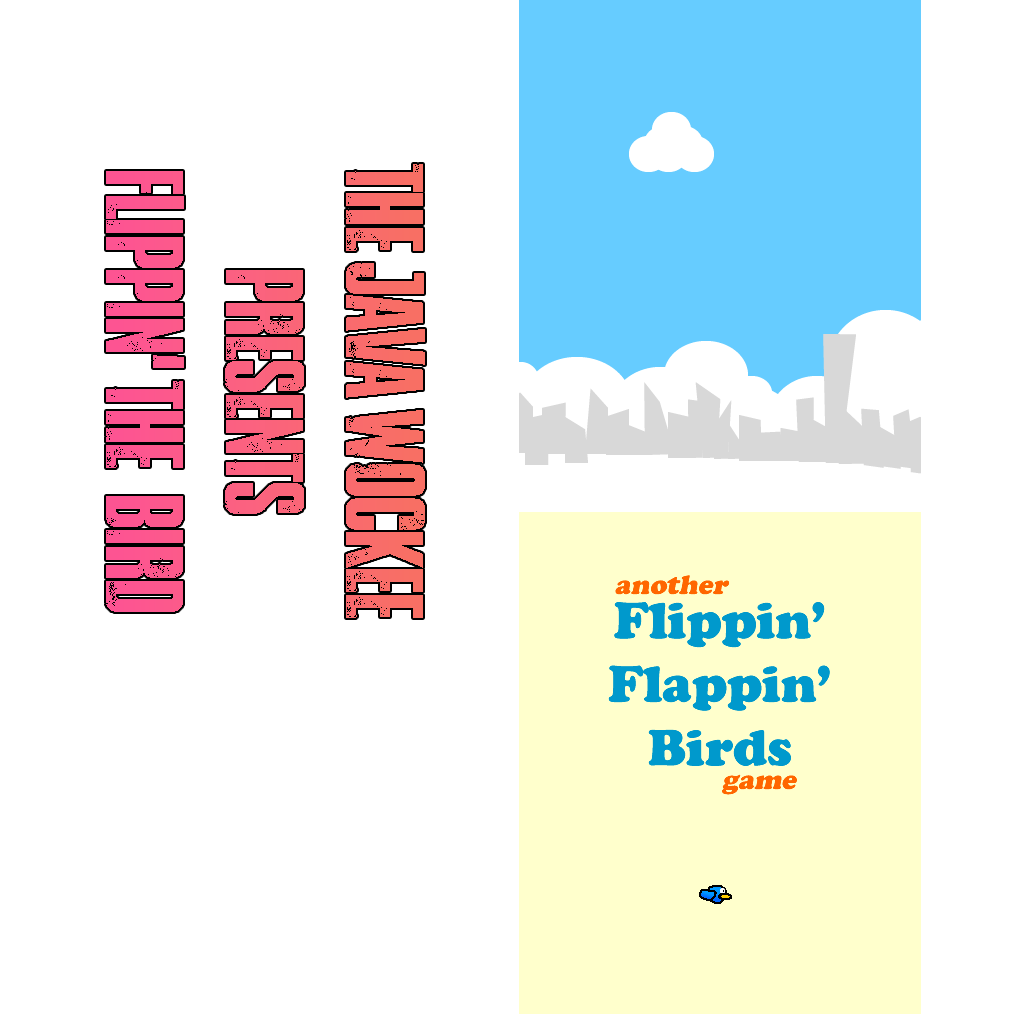
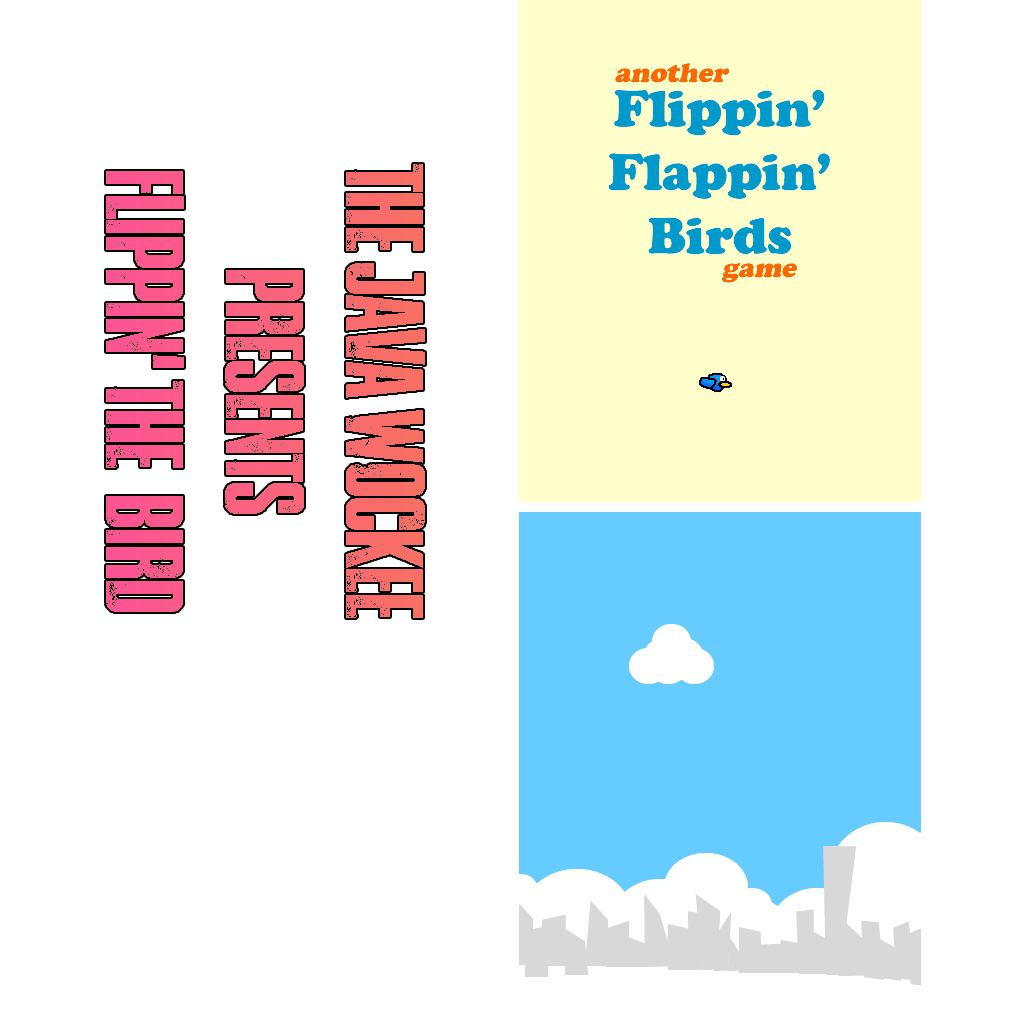
updated the Flapping bird template to the latest version of Construct 3, which includes a new tiled background and various bug fixes and improvements.

diff --git a/Flapping bird template/scripts/c3runtime.js b/Flapping bird template/scripts/c3runtime.js
@@ -1259,6 +1259,11 @@ const C3=self.C3,GESTURE_HOLD_THRESHOLD=15,GESTURE_HOLD_TIMEOUT=500,GESTURE_TAP_
 {const t=self.C3;t.Behaviors.Platform=class extends t.SDKBehaviorBase{constructor(t){super(t)}Release(){super.Release()}}}{const e=self.C3;e.Behaviors.Platform.Type=class extends e.SDKBehaviorTypeBase{constructor(t){super(t)}Release(){super.Release()}OnCreate(){}}}{const i=self.C3,s=self.C3X,n=self.IBehaviorInstance,h=0,r=1,o=2,l=3,a=4,_=5,u=6,d=7,m=8,p=9,g=.05;function accelerate(t,e,s,n,h){const r=e*h,o=s*h;return i.clamp(t*h+.5*n*h*h,r,o)}i.Behaviors.Platform.Instance=class extends i.SDKBehaviorInstanceBase{constructor(t,e){super(t),this._keyboardDisposables=null,this._leftKey=!1,this._rightKey=!1,this._jumpKey=!1,this._jumped=!1,this._doubleJumped=!1,this._canDoubleJump=!1,this._ignoreInput=!1,this._simLeft=!1,this._simRight=!1,this._simJump=!1,this._lastFloorObject=null,this._loadFloorUid=-1,this._lastFloorX=0,this._lastFloorY=0,this._floorIsJumpthru=!1,this._wasOnFloor=!1,this._wasOverJumpthru=this._runtime.GetCollisionEngine().TestOverlapJumpthru(this._inst),this._loadJumpthruUid=-1,this._animMode="stopped",this._fallThroughTime=-1,this._isFirstTick=!0,this._dx=0,this._dy=0,this._downX=0,this._downY=0,this._rightX=0,this._rightY=0,this._g=1500,this._g1=1500,this._ga=i.toRadians(90),this._maxSpeed=330,this._acc=1500,this._dec=1500,this._jumpStrength=650,this._maxFall=1e3,this._enableDoubleJump=!1,this._jumpSustain=0,this._sustainTime=0,this._defaultControls=!0,this._ceilingCollisionMode=0,this._isEnabled=!0,e&&(this._maxSpeed=e[h],this._acc=e[r],this._dec=e[o],this._jumpStrength=e[l],this._g=e[a],this._maxFall=e[_],this._enableDoubleJump=!!e[u],this._jumpSustain=e[d]/1e3,this._defaultControls=!!e[m],this._isEnabled=!!e[p]);const s=this._runtime.Dispatcher();this._disposables=new i.CompositeDisposable(i.Disposable.From(s,"instancedestroy",t=>this._OnInstanceDestroyed(t.instance)),i.Disposable.From(s,"afterload",t=>this._OnAfterLoad())),this._defaultControls&&this._BindEvents(),this._isEnabled&&this._StartPostTicking(),this._UpdateGravity()}Release(){this._keyboardDisposables&&(this._keyboardDisposables.Release(),this._keyboardDisposables=null),this._lastFloorObject=null,this._wasOverJumpthru=null,super.Release()}_BindEvents(){if(this._keyboardDisposables)return;const t=this._runtime.Dispatcher();this._keyboardDisposables=new i.CompositeDisposable(i.Disposable.From(t,"keydown",t=>this._OnKeyDown(t.data)),i.Disposable.From(t,"keyup",t=>this._OnKeyUp(t.data)),i.Disposable.From(t,"window-blur",()=>this._OnWindowOrKeyboardBlur()),i.Disposable.From(t,"keyboard-blur",()=>this._OnWindowOrKeyboardBlur()))}_UnBindEvents(){this._keyboardDisposables&&(this._keyboardDisposables.Release(),this._keyboardDisposables=null)}_OnInstanceDestroyed(t){this._lastFloorObject===t&&(this._lastFloorObject=null),this._wasOverJumpthru===t&&(this._wasOverJumpthru=null)}_OnKeyDown(t){switch(t["key"]){case"ArrowLeft":this._leftKey=!0;break;case"ArrowRight":this._rightKey=!0;break;case"ArrowUp":this._jumpKey=!0}}_OnKeyUp(t){switch(t["key"]){case"ArrowLeft":this._leftKey=!1;break;case"ArrowRight":this._rightKey=!1;break;case"ArrowUp":this._jumpKey=!1,this._jumped=!1}}_OnWindowOrKeyboardBlur(){this._leftKey=!1,this._rightKey=!1,this._jumpKey=!1,this._jumped=!1}SaveToJson(){return{"ii":this._ignoreInput,"lfx":this._lastFloorX,"lfy":this._lastFloorY,"lfo":this._lastFloorObject?this._lastFloorObject.GetUID():-1,"am":this._animMode,"en":this._isEnabled,"fallt":this._fallThroughTime,"ft":this._isFirstTick,"dx":this._dx,"dy":this._dy,"ms":this._maxSpeed,"acc":this._acc,"dec":this._dec,"js":this._jumpStrength,"g":this._g,"g1":this._g1,"mf":this._maxFall,"wof":this._wasOnFloor,"woj":this._wasOverJumpthru?this._wasOverJumpthru.GetUID():-1,"ga":this._ga,"edj":this._enableDoubleJump,"cdj":this._canDoubleJump,"dj":this._doubleJumped,"sus":this._jumpSustain,"dc":this._defaultControls,"cc":this._ceilingCollisionMode}}LoadFromJson(t){this._ignoreInput=t["ii"],this._lastFloorX=t["lfx"],this._lastFloorY=t["lfy"],this._loadFloorUid=t["lfo"],this._animMode=t["am"];const e=t["en"];this._fallThroughTime=t["fallt"]||-1,this._isFirstTick=t["ft"],this._dx=t["dx"],this._dy=t["dy"],this._maxSpeed=t["ms"],this._acc=t["acc"],this._dec=t["dec"],this._jumpStrength=t["js"],this._g=t["g"],this._g1=t["g1"],this._maxFall=t["mf"],this._wasOnFloor=t["wof"],this._loadJumpthruUid=t["woj"],this._ga=t["ga"],this._enableDoubleJump=t["edj"],this._canDoubleJump=t["cdj"],this._doubleJumped=t["dj"],this._jumpSustain=t["sus"],this._defaultControls=t["dc"],this._ceilingCollisionMode=t["cc"]||0,this._leftKey=!1,this._rightKey=!1,this._jumpKey=!1,this._jumped=!1,this._simLeft=!1,this._simRight=!1,this._simJump=!1,this._sustainTime=0,this._defaultControls?this._BindEvents():this._UnBindEvents(),this._SetEnabled(e),this._UpdateGravity()}_OnAfterLoad(){-1===this._loadFloorUid?this._lastFloorObject=null:this._lastFloorObject=this._runtime.GetInstanceByUID(this._loadFloorUid),-1===this._loadJumpthruUid?this._wasOverJumpthru=null:this._wasOverJumpthru=this._runtime.GetInstanceByUID(this._loadJumpthruUid)}_SetLastFloorObject(t){if(this._lastFloorObject=t,t){const e=t.GetWorldInfo();this._lastFloorX=e.GetX(),this._lastFloorY=e.GetY()}}_IsFallThroughEnabled(){return this._runtime.GetGameTime()>this._fallThroughTime+g}_UpdateGravity(){this._downX=Math.cos(this._ga),this._downY=Math.sin(this._ga),this._rightX=Math.cos(this._ga-Math.PI/2),this._rightY=Math.sin(this._ga-Math.PI/2),this._downX=i.roundToDp(this._downX,6),this._downY=i.roundToDp(this._downY,6),this._rightX=i.roundToDp(this._rightX,6),this._rightY=i.roundToDp(this._rightY,6),this._g1=this._g,this._g<0&&(this._downX*=-1,this._downY*=-1,this._g=Math.abs(this._g))}_GetGDir(){return this._g<0?-1:1}_IsOnFloor(){const t=this._inst.GetWorldInfo(),e=this._runtime.GetCollisionEngine(),i=this._inst,s=this._lastFloorObject,n=t.GetX(),h=t.GetY();if(t.OffsetXY(this._downX,this._downY),t.SetBboxChanged(),!s||!e.TestOverlap(i,s)||s.GetObjectClass().HasSolidBehavior()&&!e.IsSolidCollisionAllowed(s,i)||s.GetObjectClass().HasJumpthruBehavior()&&!s._IsJumpthruEnabled()){let s=e.TestOverlapSolid(i),r=null;if(!s&&this._IsFallThroughEnabled()&&(r=e.TestOverlapJumpthru(i,!0)),t.SetXY(n,h),t.SetBboxChanged(),s)return e.TestOverlap(i,s)?null:(this._floorIsJumpthru=!1,s);if(r&&r.length){let t=0;for(let s=0,n=r.length;s<n;++s)r[t]=r[s],e.TestOverlap(i,r[s])||++t;if(t>=1)return this._floorIsJumpthru=!0,r[0]}return null}return t.SetXY(n,h),t.SetBboxChanged(),s}PostTick(){if(!this._isEnabled)return;const t=this._runtime.GetDt(this._inst);this._jumpKey||this._simJump||(this._jumped=!1);let e=this._leftKey||this._simLeft,i=this._rightKey||this._simRight,s=this._jumpKey||this._simJump,n=s&&!this._jumped;this._simLeft=!1,this._simRight=!1,this._simJump=!1,this._ignoreInput&&(e=!1,i=!1,s=!1,n=!1),s||(this._sustainTime=0),this._HandleFirstTick();const[h,r,o]=this._TrackMovingPlatform();let l=this._IsOnFloor();const a=l&&!this._wasOnFloor;let _=!1;if([_,l]=this._MaybePushOutSolid(l),_)return;this._TrackFloor(l,o,h,s),n=this._HandleJump(l,n,s),l||this._HandleAirTime(n,s,t),this._wasOnFloor=!!l;const u=this._CalculateHorizontalAcceleration(e,i);let d=!1,m=0;if(0!==this._dx&&([d,l]=this._HandleHorizontalMovement(t,u,l,n)),0!==this._dy){const[e,i]=this._HandleVerticalMovement(t,l);d=d||e,m=i}!d&&a&&this._dy<0&&m>0&&(this._dy=0,d=!0),this._ApplyHorizontalAcceleration(e,i,u,t),l&&!n||d||(this._dy=Math.min(this._dy+this._g*t,this._maxFall)),this._HandleAnimationTriggers(l,d,n),this._wasOverJumpthru=this._runtime.GetCollisionEngine().TestOverlapJumpthru(this._inst)}_HandleFirstTick(){if(!this._isFirstTick)return;const t=this._inst,e=this._runtime.GetCollisionEngine();(e.TestOverlapSolid(t)||e.TestOverlapJumpthru(t))&&e.PushOutSolid(t,-this._downX,-this._downY,4,!0),this._isFirstTick=!1}_TrackMovingPlatform(){const t=this._lastFloorObject,e=t?t.GetWorldInfo():null;let s=0,n=0,h=!1;if(t&&0===this._dy&&(e.GetY()!==this._lastFloorY||e.GetX()!==this._lastFloorX)){const t=this._inst,r=t.GetWorldInfo(),o=this._runtime.GetCollisionEngine(),l=e.GetX(),a=e.GetY();s=l-this._lastFloorX,n=a-this._lastFloorY,r.OffsetXY(s,n),r.SetBboxChanged(),this._lastFloorX=l,this._lastFloorY=a,h=!0;const _=o.TestOverlapSolid(t);_&&(o.RegisterCollision(t,_),o.PushOutSolid(t,-s,-n,2.5*i.hypot2DFast(s,n)))}return[s,n,h]}_MaybePushOutSolid(t){let e=!1;const i=this._inst,s=i.GetWorldInfo(),n=this._runtime.GetCollisionEngine(),h=n.TestOverlapSolid(i);if(!h)return[!1,t];const r=Math.abs(s.GetWidth()),o=Math.abs(s.GetHeight());return n.PushOutSolid(i,-this._downX,-this._downY,o/8)?(n.RegisterCollision(i,h),t=h,this._SetLastFloorObject(h),this._floorIsJumpthru=!1,this._dy=0):n.PushOutSolidAxis(i,this._rightX,this._rightY,r/2)||n.PushOutSolidAxis(i,this._downX,this._downY,o/2)||n.PushOutSolidNearest(i,Math.max(r,o)/2)?n.RegisterCollision(i,h):e=!0,[e,t]}_TrackFloor(t,e,i,s){const n=this._inst,h=this._runtime.GetCollisionEngine();if(t){const s=this._downX,r=this._downY,o=this._rightX,l=this._rightY;if(this._doubleJumped=!1,this._canDoubleJump=!1,this._dy>0&&(this._wasOnFloor||(h.PushInFractional(n,-s,-r,t,16),this._wasOnFloor=!0),this._dy=0),this._lastFloorObject!==t)this._SetLastFloorObject(t),h.RegisterCollision(n,t);else if(e){const t=h.TestOverlapSolid(n);t&&(h.RegisterCollision(n,t),0!==i&&(i>0?h.PushOutSolid(n,-o,-l):h.PushOutSolid(n,o,l)),h.PushOutSolid(n,-s,-r))}}else s||(this._canDoubleJump=!0)}_HandleJump(t,e,s){if(t&&e||!t&&this._enableDoubleJump&&s&&this._canDoubleJump&&!this._doubleJumped){const s=this._inst,n=s.GetWorldInfo(),h=this._runtime.GetCollisionEngine(),r=n.GetX(),o=n.GetY();n.OffsetXY(-this._downX,-this._downY),n.SetBboxChanged(),h.TestOverlapSolid(s)?e=!1:(this._sustainTime=this._jumpSustain,this.Trigger(i.Behaviors.Platform.Cnds.OnJump),this._animMode="jumping",this._dy=-this._jumpStrength,e=!0,t?this._jumped=!0:this._doubleJumped=!0),n.SetXY(r,o),n.SetBboxChanged()}return e}_HandleAirTime(t,e,i){e&&this._sustainTime>0?(this._dy=-this._jumpStrength,this._sustainTime-=i):this._lastFloorObject=null,t&&(this._jumped=!0)}_CalculateHorizontalAcceleration(t,e){let i=0;const s=this._acc,n=this._dec;return t&&!e&&(i=this._dx>0?-(s+n):-s),e&&!t&&(i=this._dx<0?s+n:s),i}_ApplyHorizontalAcceleration(t,e,s,n){const h=this._dec;t===e&&(this._dx<0?this._dx=Math.min(this._dx+h*n,0):this._dx>0&&(this._dx=Math.max(this._dx-h*n,0))),this._dx=i.clamp(this._dx+s*n,-this._maxSpeed,this._maxSpeed);const r=this._runtime.GetCollisionEngine(),o=this._dx<0?this._GetWallObstacle(0,1,1):null;if(o)this._dx=0,r.RegisterCollision(this._inst,o);else{const t=this._dx>0?this._GetWallObstacle(1,1,1):null;t&&(this._dx=0,r.RegisterCollision(this._inst,t))}}_HandleHorizontalMovement(t,e,i,s){const n=this._inst,h=n.GetWorldInfo(),r=this._runtime.GetCollisionEngine(),o=this._downX,l=this._downY,a=this._rightX,_=this._rightY,u=this._maxSpeed;let d=!1;const m=new Set(r.TestOverlapJumpthru(n,!0));let p=h.GetX(),g=h.GetY();const c=accelerate(this._dx,-u,u,e,t)*a,S=accelerate(this._dx,-u,u,e,t)*_;h.OffsetXY(a*(this._dx>1?1:-1)-o,_*(this._dx>1?1:-1)-l),h.SetBboxChanged();let b=!1;const f=r.TestOverlapSolid(n);h.SetXY(p+c,g+S),h.SetBboxChanged();let G=r.TestOverlapSolid(n);if(!G&&i&&this._floorIsJumpthru&&(G=r.TestOverlapJumpthru(n),m.has(G)?G=null:b=!0),G){let e=Math.abs(this._dx*t)+2;f||!r.PushOutSolid(n,-o,-l,e,b,G)?(r.RegisterCollision(n,G),e=Math.max(Math.abs(this._dx*t*2.5),Math.floor(h.GetWidth())),r.PushOutSolid(n,a*(this._dx<0?1:-1),_*(this._dx<0?1:-1),e,!1)?!i||b||this._floorIsJumpthru||(p=h.GetX(),g=h.GetY(),h.OffsetXY(o,l),r.TestOverlapSolid(n)&&r.PushOutSolid(n,-o,-l,3,!1)||(h.SetXY(p,g),h.SetBboxChanged())):(h.SetXY(p,g),h.SetBboxChanged()),b||(this._dx=0)):!f&&!s&&Math.abs(this._dy)<Math.abs(this._jumpStrength/4)&&(this._dy=0,i||(d=!0))}else{const e=this._IsOnFloor();if(i&&!e){const e=Math.ceil(Math.abs(this._dx*t))+2;p=h.GetX(),g=h.GetY(),h.OffsetXY(o*e,l*e),h.SetBboxChanged();const s=r.TestOverlapJumpthru(n);let a=!1;s&&!m.has(s)&&r.PushOutSolid(n,-o,-l,e+2,!0,s)&&(i=s,this._SetLastFloorObject(s),this._floorIsJumpthru=!0,a=!0),a||(r.TestOverlapSolid(n)?r.PushOutSolid(n,-o,-l,e+2,!1):(h.SetXY(p,g),h.SetBboxChanged()))}else e&&(!i&&this._floorIsJumpthru&&(this._SetLastFloorObject(e),this._dy=0,d=!0),0===this._dy&&r.PushInFractional(n,-o,-l,e,16))}return[d,i]}_HandleVerticalMovement(t,e){const s=this._inst,n=s.GetWorldInfo(),h=this._runtime.GetCollisionEngine(),r=this._downX,o=this._downY;let l=!1,a=n.GetX(),_=n.GetY();const u=accelerate(this._dy,-1/0,this._maxFall,this._g,t);if(this._dy<0&&u>0&&e)return this._dy=0,[!1,0];n.OffsetXY(u*r,u*o);const d=n.GetX(),m=n.GetY();n.SetBboxChanged();let p=h.TestOverlapSolid(s),g=!1;if(!p&&this._dy>0&&!e){const t=this._IsFallThroughEnabled()?h.TestOverlapJumpthru(s,!0):null;if(t&&t.length){if(this._wasOverJumpthru){n.SetXY(a,_),n.SetBboxChanged();let e=0;for(let i=0,n=t.length;i<n;++i)t[e]=t[i],h.TestOverlap(s,t[i])||++e;i.truncateArray(t,e),n.SetXY(d,m),n.SetBboxChanged()}t.length>=1&&(p=t[0])}g=!!p}if(p){h.RegisterCollision(s,p),this._sustainTime=0;let e=1.1;g&&!this._wasOverJumpthru&&(e=2);const i=Math.max(Math.abs(this._dy*t*e),2);h.PushOutSolid(s,r*(this._dy<0?1:-1),o*(this._dy<0?1:-1),i,g,p)?(this._SetLastFloorObject(p),this._floorIsJumpthru=g,this._dy>0&&(l=!0),(this._dy>0||0===this._ceilingCollisionMode)&&(this._dy=0),this._dy<0&&1===this._ceilingCollisionMode&&h.PushInFractional(s,r,o,p,32)):(n.SetXY(a,_),n.SetBboxChanged(),this._wasOnFloor=!0,g||(this._dy=0))}return[l,u]}_HandleAnimationTriggers(t,e,s){"falling"!==this._animMode&&this._dy>0&&!t&&(this.Trigger(i.Behaviors.Platform.Cnds.OnFall),this._animMode="falling"),(t||e)&&this._dy>=0&&("falling"===this._animMode||e||s&&0===this._dy?(this.Trigger(i.Behaviors.Platform.Cnds.OnLand),0===this._dx&&0===this._dy?this._animMode="stopped":this._animMode="moving"):("stopped"!==this._animMode&&0===this._dx&&0===this._dy&&(this.Trigger(i.Behaviors.Platform.Cnds.OnStop),this._animMode="stopped"),"moving"===this._animMode||0===this._dx&&0===this._dy||s||(this.Trigger(i.Behaviors.Platform.Cnds.OnMove),this._animMode="moving")))}_IsMoving(){return 0!==this._GetVectorX()||0!==this._GetVectorY()}_CheckIfStandingOnFloor(){if(0!==this._dy)return!1;const t=this._inst,e=this.GetWorldInfo(),i=this._runtime.GetCollisionEngine(),s=e.GetX(),n=e.GetY();e.OffsetXY(this._downX,this._downY),e.SetBboxChanged();const h=i.TestOverlapSolid(t);let r=null;if(!h&&this._IsFallThroughEnabled()&&(r=i.TestOverlapJumpthru(t,!0)),e.SetXY(s,n),e.SetBboxChanged(),h)return!i.TestOverlap(t,h);if(r&&r.length){let e=0;for(let s=0,n=r.length;s<n;++s)r[e]=r[s],i.TestOverlap(t,r[s])||e++;if(e>=1)return!0}return!1}_IsByWall(t,e=2,i=3){return!!this._GetWallObstacle(t,e,i)}_GetWallObstacle(t,e=2,i=3){const s=this._inst,n=this.GetWorldInfo(),h=this._runtime.GetCollisionEngine(),r=n.GetX(),o=n.GetY();if(0===t?n.OffsetXY(-this._rightX*e,-this._rightY*e):n.OffsetXY(this._rightX*e,this._rightY*e),n.SetBboxChanged(),!h.TestOverlapSolid(s))return n.SetXY(r,o),n.SetBboxChanged(),null;n.OffsetXY(-this._downX*i,-this._downY*i),n.SetBboxChanged();const l=h.TestOverlapSolid(s);return n.SetXY(r,o),n.SetBboxChanged(),l}_FallThroughJumpThru(){const t=this.GetWorldInfo(),e=t.GetX(),i=t.GetY();t.OffsetXY(this._downX,this._downY),t.SetBboxChanged();const s=this._runtime.GetCollisionEngine().TestOverlapJumpthru(this._inst,!1);t.SetXY(e,i),t.SetBboxChanged(),s&&(this._fallThroughTime=this._runtime.GetGameTime(),this._lastFloorObject=null)}_ResetDoubleJump(t){this._doubleJumped=!t}_GetSpeed(){return Math.hypot(this._dx,this._dy)}_GetMovingAngle(){return Math.atan2(this._dy,this._dx)}_IsJumping(){return this._dy<0}_IsFalling(){return this._dy>0}_SetMaxSpeed(t){this._maxSpeed=Math.max(t,0)}_GetMaxSpeed(){return this._maxSpeed}_SetAcceleration(t){this._acc=Math.max(t,0)}_GetAcceleration(){return this._acc}_SetDeceleration(t){this._dec=Math.max(t,0)}_GetDeceleration(){return this._dec}_SetJumpStrength(t){this._jumpStrength=Math.max(t,0)}_GetJumpStrength(){return this._jumpStrength}_SetMaxFallSpeed(t){this._maxFall=Math.max(t,0)}_GetMaxFallSpeed(){return this._maxFall}_SetGravity(t){if(this._g1===t)return;this._g=t,this._UpdateGravity();const e=this._runtime.GetCollisionEngine(),i=this.GetWorldInfo();e.TestOverlapSolid(this._inst)&&(e.PushOutSolid(this._inst,this._downX,this._downY,10),i.OffsetXY(2*this._downX,2*this._downY),i.SetBboxChanged()),this._lastFloorObject=null}_GetGravity(){return this._g}_SetGravityAngle(t){t=i.clampAngle(t),this._ga!==t&&(this._ga=t,this._UpdateGravity(),this._lastFloorObject=null)}_GetGravityAngle(){return this._ga}_SetDoubleJumpEnabled(t){this._enableDoubleJump=!!t}_IsDoubleJumpEnabled(){return this._enableDoubleJump}_SetJumpSustain(t){this._jumpSustain=t}_GetJumpSustain(){return this._jumpSustain}_SetCeilingCollisionMode(t){this._ceilingCollisionMode=t}_GetCeilingCollisionMode(){return this._ceilingCollisionMode}_SetVectorX(t){this._dx=t}_GetVectorX(){return this._dx}_SetVectorY(t){this._dy=t}_GetVectorY(){return this._dy}_SimulateControl(t){if(this._isEnabled)switch(t){case 0:this._simLeft=!0;break;case 1:this._simRight=!0;break;case 2:this._simJump=!0}}_SetDefaultControls(t){t=!!t,this._defaultControls!==t&&(this._defaultControls=t,this._defaultControls?this._BindEvents():(this._UnBindEvents(),this._OnWindowOrKeyboardBlur()))}_IsDefaultControls(){return this._defaultControls}_SetIgnoreInput(t){this._ignoreInput=!!t}_IsIgnoreInput(){return this._ignoreInput}_SetEnabled(t){t=!!t,this._isEnabled!==t&&(this._isEnabled=t,this._isEnabled?this._StartPostTicking():(this._StopPostTicking(),this._lastFloorObject=null,this._simLeft=!1,this._simRight=!1,this._simJump=!1))}_IsEnabled(){return this._isEnabled}GetPropertyValueByIndex(t){switch(t){case h:return this._GetMaxSpeed();case r:return this._GetAcceleration();case o:return this._GetDeceleration();case l:return this._GetJumpStrength();case a:return this._GetGravity();case _:return this._GetMaxFallSpeed();case u:return this._IsDoubleJumpEnabled();case d:return 1e3*this._GetJumpSustain();case m:return this._IsDefaultControls();case p:return this._IsEnabled()}}SetPropertyValueByIndex(t,e){switch(t){case h:this._SetMaxSpeed(e);break;case r:this._SetAcceleration(e);break;case o:this._SetDeceleration(e);break;case l:this._SetJumpStrength(e);break;case a:this._SetGravity(e);break;case _:this._SetMaxFallSpeed(e);break;case u:this._SetDoubleJumpEnabled(!!e);break;case d:this._SetJumpSustain(e/1e3);break;case m:this._SetDefaultControls(!!e);break;case p:this._SetEnabled(!!e)}}GetDebuggerProperties(){const t="behaviors.platform";return[{title:"$"+this.GetBehaviorType().GetName(),properties:[{name:t+".debugger.vector-x",value:this._GetVectorX(),onedit:t=>this._SetVectorX(t)},{name:t+".debugger.vector-y",value:this._GetVectorY(),onedit:t=>this._SetVectorY(t)},{name:t+".properties.max-speed.name",value:this._GetMaxSpeed(),onedit:t=>this._SetMaxSpeed(t)},{name:t+".properties.acceleration.name",value:this._GetAcceleration(),onedit:t=>this._SetAcceleration(t)},{name:t+".properties.deceleration.name",value:this._GetDeceleration(),onedit:t=>this._SetDeceleration(t)},{name:t+".properties.jump-strength.name",value:this._GetJumpStrength(),onedit:t=>this._SetJumpStrength(t)},{name:t+".properties.gravity.name",value:this._GetGravity(),onedit:t=>this._SetGravity(t)},{name:t+".debugger.gravity-angle",value:i.toDegrees(this._GetGravityAngle()),onedit:t=>this._SetGravityAngle(i.toRadians(t))},{name:t+".properties.max-fall-speed.name",value:this._GetMaxFallSpeed(),onedit:t=>this._SetMaxFallSpeed(t)},{name:t+".properties.double-jump.name",value:this._IsDoubleJumpEnabled(),onedit:t=>this._SetDoubleJumpEnabled(t)},{name:t+".properties.jump-sustain.name",value:1e3*this._GetJumpSustain(),onedit:t=>this._SetJumpSustain(t/1e3)},{name:t+".debugger.animation-mode",value:[t+".debugger.anim-"+this._animMode]},{name:t+".properties.enabled.name",value:this._IsEnabled(),onedit:t=>this._SetEnabled(t)}]}]}GetScriptInterfaceClass(){return self.IPlatformBehaviorInstance}};const c=new WeakMap,S=new Map([["left",0],["right",1],["jump",2]]);self.IPlatformBehaviorInstance=class extends n{constructor(){super(),c.set(this,n._GetInitInst().GetSdkInstance())}fallThrough(){c.get(this)._FallThroughJumpThru()}resetDoubleJump(t){c.get(this)._ResetDoubleJump(!!t)}simulateControl(t){s.RequireString(t);const e=S.get(t);if("number"!=typeof e)throw new Error("invalid control");c.get(this)._SimulateControl(e)}get speed(){return c.get(this)._GetSpeed()}get maxSpeed(){return c.get(this)._GetMaxSpeed()}set maxSpeed(t){s.RequireFiniteNumber(t),c.get(this)._SetMaxSpeed(t)}get acceleration(){return c.get(this)._GetAcceleration()}set acceleration(t){s.RequireFiniteNumber(t),c.get(this)._SetAcceleration(t)}get deceleration(){return c.get(this)._GetDeceleration()}set deceleration(t){s.RequireFiniteNumber(t),c.get(this)._SetDeceleration(t)}get jumpStrength(){return c.get(this)._GetJumpStrength()}set jumpStrength(t){s.RequireFiniteNumber(t),c.get(this)._SetJumpStrength(t)}get maxFallSpeed(){return c.get(this)._GetMaxFallSpeed()}set maxFallSpeed(t){s.RequireFiniteNumber(t),c.get(this)._SetMaxFallSpeed(t)}get gravity(){return c.get(this)._GetGravity()}set gravity(t){s.RequireFiniteNumber(t),c.get(this)._SetGravity(t)}get gravityAngle(){return c.get(this)._GetGravityAngle()}set gravityAngle(t){s.RequireFiniteNumber(t),c.get(this)._SetGravityAngle(t)}get isDoubleJumpEnabled(){return c.get(this)._IsDoubleJumpEnabled()}set isDoubleJumpEnabled(t){c.get(this)._SetDoubleJumpEnabled(!!t)}get jumpSustain(){return c.get(this)._GetJumpSustain()}set jumpSustain(t){s.RequireFiniteNumber(t),c.get(this)._SetJumpSustain(t)}get ceilingCollisionMode(){return 0===c.get(this)._GetCeilingCollisionMode()?"stop":"preserve-momentum"}set ceilingCollisionMode(t){s.RequireString(t);const e=c.get(this);if("stop"===t)e._SetCeilingCollisionMode(0);else{if("preserve-momentum"!==t)throw new Error("invalid mode");e._SetCeilingCollisionMode(1)}}get isOnFloor(){return c.get(this)._CheckIfStandingOnFloor()}isByWall(t){s.RequireString(t);const e=c.get(this);if("left"===t)return e._IsByWall(0);if("right"===t)return e._IsByWall(1);throw new Error("invalid side")}get isMoving(){return c.get(this)._IsMoving()}get isJumping(){return c.get(this)._IsJumping()}get isFalling(){return c.get(this)._IsFalling()}get vectorX(){return c.get(this)._GetVectorX()}set vectorX(t){s.RequireFiniteNumber(t),c.get(this)._SetVectorX(t)}get vectorY(){return c.get(this)._GetVectorY()}set vectorY(t){s.RequireFiniteNumber(t),c.get(this)._SetVectorY(t)}setVector(t,e){s.RequireFiniteNumber(t),s.RequireFiniteNumber(e);const i=c.get(this);i._SetVectorX(t),i._SetVectorY(e)}getVector(){const t=c.get(this);return[t._GetVectorX(),t._GetVectorY()]}get isDefaultControls(){return c.get(this)._IsDefaultControls()}set isDefaultControls(t){c.get(this)._SetDefaultControls(!!t)}get isIgnoringInput(){return c.get(this)._IsIgnoreInput()}set isIgnoringInput(t){c.get(this)._SetIgnoreInput(!!t)}get isEnabled(){return c.get(this)._IsEnabled()}set isEnabled(t){c.get(this)._SetEnabled(!!t)}}}{const b=self.C3;b.Behaviors.Platform.Cnds={IsMoving(){return this._IsMoving()},CompareSpeed(t,e){return b.compare(this._GetSpeed(),t,e)},IsOnFloor(){return this._CheckIfStandingOnFloor()},IsByWall(t){return this._IsByWall(t)},IsJumping(){return this._IsJumping()},IsFalling(){return this._IsFalling()},IsDoubleJumpEnabled(){return this._IsDoubleJumpEnabled()},OnJump:()=>!0,OnFall:()=>!0,OnStop:()=>!0,OnMove:()=>!0,OnLand:()=>!0,IsEnabled(){return this._IsEnabled()}}}{const f=self.C3;f.Behaviors.Platform.Acts={SetMaxSpeed(t){this._SetMaxSpeed(t)},SetAcceleration(t){this._SetAcceleration(t)},SetDeceleration(t){this._SetDeceleration(t)},SetJumpStrength(t){this._SetJumpStrength(t)},SetMaxFallSpeed(t){this._SetMaxFallSpeed(t)},SetGravity(t){this._SetGravity(t)},SimulateControl(t){this._SimulateControl(t)},SetIgnoreInput(t){this._SetIgnoreInput(!!t)},SetVectorX(t){this._SetVectorX(t)},SetVectorY(t){this._SetVectorY(t)},SetGravityAngle(t){this._SetGravityAngle(f.toRadians(t))},SetEnabled(t){this._SetEnabled(0!==t)},FallThrough(){this._FallThroughJumpThru()},SetDoubleJumpEnabled(t){this._SetDoubleJumpEnabled(0!==t)},SetJumpSustain(t){this._SetJumpSustain(t/1e3)},SetCeilingCollision(t){this._SetCeilingCollisionMode(t)},SetDefaultControls(t){this._SetDefaultControls(t)},ResetDoubleJump(t){this._ResetDoubleJump(t)}}}{const G=self.C3;G.Behaviors.Platform.Exps={Speed(){return this._GetSpeed()},MaxSpeed(){return this._GetMaxSpeed()},Acceleration(){return this._GetAcceleration()},Deceleration(){return this._GetDeceleration()},JumpStrength(){return this._GetJumpStrength()},Gravity(){return this._GetGravity()},GravityAngle(){return G.toDegrees(this._GetGravityAngle())},MaxFallSpeed(){return this._GetMaxFallSpeed()},MovingAngle(){return G.toDegrees(this._GetMovingAngle())},VectorX(){return this._GetVectorX()},VectorY(){return this._GetVectorY()},JumpSustain(){return 1e3*this._GetJumpSustain()}}}
 }
 
+// scripts/behaviors/Sin/c3runtime/runtime.js
+{
+{const e=self.C3;e.Behaviors.Sin=class extends e.SDKBehaviorBase{constructor(e){super(e)}Release(){super.Release()}}}{const e=self.C3;e.Behaviors.Sin.Type=class extends e.SDKBehaviorTypeBase{constructor(e){super(e)}Release(){super.Release()}OnCreate(){}}}{const e=self.C3,t=self.C3X,i=self.IBehaviorInstance,s=0,a=1,n=2,h=3,_=4,r=5,o=6,l=7,u=8,d=0,m=1,g=2,v=3,c=4,p=5,G=6,b=7,S=8,V=9,w=0,P=1,M=2,I=3,f=4,k=2*Math.PI,W=Math.PI/2,R=3*Math.PI/2,E=[0,1,8,3,4,2,5,6,9,7];e.Behaviors.Sin.Instance=class extends e.SDKBehaviorInstanceBase{constructor(t,i){super(t),this._i=0,this._movement=0,this._wave=0,this._period=0,this._mag=0,this._isEnabled=!0,this._basePeriod=0,this._basePeriodOffset=0,this._baseMag=0,this._periodRandom=0,this._periodOffsetRandom=0,this._magnitudeRandom=0,this._initialValue=0,this._initialValue2=0,this._lastKnownValue=0,this._lastKnownValue2=0,this._ratio=0,i&&(this._movement=E[i[s]],this._wave=i[a],this._periodRandom=this._runtime.Random()*i[h],this._basePeriod=i[n],this._period=i[n],this._period+=this._periodRandom,this._basePeriodOffset=i[_],0!==this._period&&(this._periodOffsetRandom=this._runtime.Random()*i[r],this._i=i[_]/this._period*k,this._i+=this._periodOffsetRandom/this._period*k),this._magnitudeRandom=this._runtime.Random()*i[l],this._baseMag=i[o],this._mag=i[o],this._mag+=this._magnitudeRandom,this._isEnabled=!!i[u]),this._movement===p&&(this._mag=e.toRadians(this._mag)),this.Init(),this._isEnabled&&this._StartTicking()}Release(){super.Release()}SaveToJson(){return{"i":this._i,"e":this._isEnabled,"mv":this._movement,"w":this._wave,"p":this._period,"mag":this._mag,"iv":this._initialValue,"iv2":this._initialValue2,"r":this._ratio,"lkv":this._lastKnownValue,"lkv2":this._lastKnownValue2}}LoadFromJson(e){this._i=e["i"],this._SetEnabled(e["e"]),this._movement=e["mv"],this._wave=e["w"],this._period=e["p"],this._mag=e["mag"],this._initialValue=e["iv"],this._initialValue2=e["iv2"],this._ratio=e["r"],this._lastKnownValue=e["lkv"],this._lastKnownValue2=e["lkv2"]}Init(){const e=this._inst.GetWorldInfo();switch(this._movement){case d:this._initialValue=e.GetX();break;case m:this._initialValue=e.GetY();break;case g:this._initialValue=e.GetWidth(),this._ratio=e.GetHeight()/e.GetWidth();break;case v:this._initialValue=e.GetWidth();break;case c:this._initialValue=e.GetHeight();break;case p:this._initialValue=e.GetAngle();break;case G:this._initialValue=e.GetOpacity();break;case b:this._initialValue=0;break;case S:this._initialValue=e.GetX(),this._initialValue2=e.GetY();break;case V:this._initialValue=e.GetZ()}this._lastKnownValue=this._initialValue,this._lastKnownValue2=this._initialValue2}WaveFunc(e){switch(e%=k,this._wave){case w:return Math.sin(e);case P:return e<=W?e/W:e<=R?1-2*(e-W)/Math.PI:(e-R)/W-1;case M:return 2*e/k-1;case I:return-2*e/k+1;case f:return e<Math.PI?-1:1}return 0}Tick(){const e=this._runtime.GetDt(this._inst);this._isEnabled&&0!==e&&(0===this._period?this._i=0:this._i=(this._i+e/this._period*k)%k,this._UpdateFromPhase())}_UpdateFromPhase(){const t=this._inst.GetWorldInfo();switch(this._movement){case d:t.GetX()!==this._lastKnownValue&&(this._initialValue+=t.GetX()-this._lastKnownValue),t.SetX(this._initialValue+this.WaveFunc(this._i)*this._mag),this._lastKnownValue=t.GetX();break;case m:t.GetY()!==this._lastKnownValue&&(this._initialValue+=t.GetY()-this._lastKnownValue),t.SetY(this._initialValue+this.WaveFunc(this._i)*this._mag),this._lastKnownValue=t.GetY();break;case g:t.SetWidth(this._initialValue+this.WaveFunc(this._i)*this._mag),t.SetHeight(t.GetWidth()*this._ratio);break;case v:t.SetWidth(this._initialValue+this.WaveFunc(this._i)*this._mag);break;case c:t.SetHeight(this._initialValue+this.WaveFunc(this._i)*this._mag);break;case p:t.GetAngle()!==this._lastKnownValue&&(this._initialValue=e.clampAngle(this._initialValue+(t.GetAngle()-this._lastKnownValue))),t.SetAngle(this._initialValue+this.WaveFunc(this._i)*this._mag),this._lastKnownValue=t.GetAngle();break;case G:t.SetOpacity(this._initialValue+this.WaveFunc(this._i)*this._mag/100);break;case S:t.GetX()!==this._lastKnownValue&&(this._initialValue+=t.GetX()-this._lastKnownValue),t.GetY()!==this._lastKnownValue2&&(this._initialValue2+=t.GetY()-this._lastKnownValue2),t.SetX(this._initialValue+Math.cos(t.GetAngle())*this.WaveFunc(this._i)*this._mag),t.SetY(this._initialValue2+Math.sin(t.GetAngle())*this.WaveFunc(this._i)*this._mag),this._lastKnownValue=t.GetX(),this._lastKnownValue2=t.GetY();break;case V:t.SetZ(this._initialValue+this.WaveFunc(this._i)*this._mag)}t.SetBboxChanged()}_OnSpriteFrameChanged(e,t){}_SetPeriod(e){this._period=e}_GetPeriod(){return this._period}_SetMagnitude(e){this._mag=e}_SetMagnitude_ConvertAngle(t){5===this._movement&&(t=e.toRadians(t)),this._SetMagnitude(t)}_GetMagnitude(){return this._mag}_GetMagnitude_ConvertAngle(){let t=this._GetMagnitude();return 5===this._movement&&(t=e.toDegrees(t)),t}_SetMovement(t){5===this._movement&&5!==t&&(this._mag=e.toDegrees(this._mag)),this._movement=t,this.Init()}_GetMovement(){return this._movement}_SetWave(e){this._wave=e}_GetWave(){return this._wave}_SetPhase(t){this._i=e.clamp(t,0,2*Math.PI),this._UpdateFromPhase()}_GetPhase(){return this._i}_SetEnabled(e){this._isEnabled=!!e,this._isEnabled?this._StartTicking():this._StopTicking()}_IsEnabled(){return this._isEnabled}GetPropertyValueByIndex(e){switch(e){case s:return this._movement;case a:return this._wave;case n:return this._basePeriod;case o:return this._baseMag;case u:return this._isEnabled}}SetPropertyValueByIndex(t,i){switch(t){case s:this._movement=E[i],this.Init();break;case a:this._wave=i;break;case n:this._basePeriod=i,this._period=this._basePeriod+this._periodRandom,this._isEnabled||(0!==this._period?(this._i=this._basePeriodOffset/this._period*k,this._i+=this._periodOffsetRandom/this._period*k):this._i=0);break;case o:this._baseMag=i,this._mag=this._baseMag+this._magnitudeRandom,this._movement===p&&(this._mag=e.toRadians(this._mag));break;case u:this._isEnabled=!!i}}GetDebuggerProperties(){const e="behaviors.sin";return[{title:"$"+this.GetBehaviorType().GetName(),properties:[{name:e+".properties.enabled.name",value:this._IsEnabled(),onedit:e=>this._SetEnabled(e)},{name:e+".properties.period.name",value:this._GetPeriod(),onedit:e=>this._SetPeriod(e)},{name:e+".properties.magnitude.name",value:this._GetMagnitude_ConvertAngle(),onedit:e=>this._SetMagnitude_ConvertAngle(e)},{name:e+".debugger.value",value:this.WaveFunc(this._GetPhase())*this._GetMagnitude_ConvertAngle()}]}]}GetScriptInterfaceClass(){return self.ISineBehaviorInstance}};const C=new WeakMap,K=["horizontal","vertical","size","width","height","angle","opacity","value-only","forwards-backwards","z-elevation"],F=["sine","triangle","sawtooth","reverse-sawtooth","square"];self.ISineBehaviorInstance=class extends i{constructor(){super(),C.set(this,i._GetInitInst().GetSdkInstance())}set period(e){t.RequireFiniteNumber(e),C.get(this)._SetPeriod(e)}get period(){return C.get(this)._GetPeriod()}set magnitude(e){t.RequireFiniteNumber(e),C.get(this)._SetMagnitude(e)}get magnitude(){return C.get(this)._GetMagnitude()}set phase(e){C.get(this)._SetPhase(e)}get phase(){return C.get(this)._GetPhase()}set movement(e){t.RequireString(e);const i=K.indexOf(e);if(-1===i)throw new Error("invalid movement");C.get(this)._SetMovement(i)}get movement(){return K[C.get(this)._GetMovement()]}set wave(e){t.RequireString(e);const i=F.indexOf(e);if(-1===i)throw new Error("invalid wave");C.get(this)._SetWave(i)}get wave(){return F[C.get(this)._GetWave()]}get value(){const e=C.get(this);return e.WaveFunc(e._GetPhase())*e._GetMagnitude()}updateInitialState(){C.get(this).Init()}set isEnabled(e){C.get(this)._SetEnabled(!!e)}get isEnabled(){return C.get(this)._IsEnabled()}}}{const e=self.C3;e.Behaviors.Sin.Cnds={IsEnabled(){return this._IsEnabled()},CompareMovement(e){return this._GetMovement()===e},ComparePeriod(t,i){return e.compare(this._GetPeriod(),t,i)},CompareMagnitude(t,i){return e.compare(this._GetMagnitude_ConvertAngle(),t,i)},CompareWave(e){return this._GetWave()===e}}}self.C3.Behaviors.Sin.Acts={SetEnabled(e){this._SetEnabled(0!==e)},SetPeriod(e){this._SetPeriod(e)},SetMagnitude(e){this._SetMagnitude_ConvertAngle(e)},SetMovement(e){this._SetMovement(e)},SetWave(e){this._wave=e},SetPhase(e){const t=2*Math.PI;this._SetPhase(e*t%t)},UpdateInitialState(){this.Init()}};self.C3.Behaviors.Sin.Exps={CyclePosition(){return this._GetPhase()/(2*Math.PI)},Period(){return this._GetPeriod()},Magnitude(){return this._GetMagnitude_ConvertAngle()},Value(){return this.WaveFunc(this._GetPhase())*this._GetMagnitude_ConvertAngle()}};
+}
+
 // scripts/expTable.js
 {
 
@@ -1361,6 +1366,7 @@ self.C3_ExpressionFuncs = [
 		() => 0,
 		() => -500,
 		() => 320,
+		() => 1,
 		() => "HighScore",
 		p => {
 			const f0 = p._GetNode(0).GetBoundMethod();
@@ -1373,7 +1379,10 @@ self.C3_ExpressionFuncs = [
 			return () => (60 * f0());
 		},
 		() => "Collisions",
-		() => "Keep going!",
+		p => {
+			const f0 = p._GetNode(0).GetBoundMethod();
+			return () => f0("Unlucky… try again!", "You nearly had it!", "That pipe came out of nowhere 😅", "Focus… you got this!", "Okay… that was rough 😂", "Flap smarter, not harder!", "You're improving 👀", "Again. Right now. Go!", "Gravity is a cruel mistress.", "The pipes are winning. Don't let them.", "Was that a sneeze? Or just bad timing?", "I’ve seen better flapping from a penguin.", "The bird deserves better than this.", "Is your screen greasy? Wipe it off!", "Maybe try flapping... upwards?", "That pipe was definitely cheating.", "Physics: 1, Bird: 0.", "You’re making the pipes look good.", "So close, yet so very far.", "Did you forget how to physics?", "The bird is disappointed in you.", "Take a deep breath. Now flap!", "I believe in you! (Mostly).", "The pipes are laughing at us.", "That was a graceful faceplant.", "Try not to hit the green things.", "Your wings are tired, but your heart is strong!", "New strategy: Don't hit the pipes.", "I've seen toast with better reflexes.", "You're doing great! (For a beginner).", "Are you playing with your elbows?", "Wait, was that a world record? Oh, no.", "The bird needs a vacation after that one.", "One more try? I won't tell anyone.", "You're becoming a professional pipe-hitter.", "Is your thumb okay?", "That was almost impressive!", "Pipes: the natural enemy of the flapper.", "Maybe the bird needs a helmet?", "Legend says if you flap enough, you win.", "Your high score is safe... for now.", "That was a tactical error.", "Don't quit your day job just yet.", "The pipes aren't moving, you are!", "Focus! Channel your inner eagle.", "If at first you don't succeed, flap again.", "That was a bold move. It didn't pay off.", "You hit that pipe with a lot of confidence.", "I'm not mad, I'm just disappointed.", "The sky is the limit! (But the pipes are the obstacle).", "Who put that pipe there?!");
+		},
 		p => {
 			const v0 = p._GetNode(0).GetVar();
 			return () => and("Score: ", v0.GetValue());
@@ -1392,14 +1401,19 @@ self.C3_ExpressionFuncs = [
 			const n0 = p._GetNode(0);
 			return () => n0.ExpObject();
 		},
-		() => 1,
 		() => "Background",
 		() => -560,
 		() => -410,
+		() => 540,
 		p => {
 			const n0 = p._GetNode(0);
 			const f1 = p._GetNode(1).GetBoundMethod();
 			return () => (n0.ExpObject() - (300 * f1()));
+		},
+		p => {
+			const n0 = p._GetNode(0);
+			const f1 = p._GetNode(1).GetBoundMethod();
+			return () => (n0.ExpObject() + ((-10) * f1()));
 		},
 		() => -50,
 		() => "Obstacle",
@@ -1412,6 +1426,19 @@ self.C3_ExpressionFuncs = [
 		p => {
 			const n0 = p._GetNode(0);
 			return () => (n0.ExpObject() + 750);
+		},
+		p => {
+			const f0 = p._GetNode(0).GetBoundMethod();
+			return () => f0(2, 5);
+		},
+		p => {
+			const f0 = p._GetNode(0).GetBoundMethod();
+			return () => f0(400, 720);
+		},
+		() => 453,
+		p => {
+			const f0 = p._GetNode(0).GetBoundMethod();
+			return () => f0(200, 100);
 		},
 		() => -5
 ];

diff --git a/Flapping bird template/scripts/objRefTable.js b/Flapping bird template/scripts/objRefTable.js
@@ -10,6 +10,7 @@ self.C3_GetObjectRefTable = function () {
 		C3.Plugins.Touch,
 		C3.Plugins.Audio,
 		C3.Plugins.LocalStorage,
+		C3.Behaviors.Sin,
 		C3.Plugins.System.Cnds.IsGroupActive,
 		C3.Plugins.System.Cnds.OnLayoutStart,
 		C3.Plugins.Text.Acts.SetText,
@@ -18,6 +19,8 @@ self.C3_GetObjectRefTable = function () {
 		C3.Plugins.Sprite.Acts.Destroy,
 		C3.Behaviors.Platform.Acts.SetVectorY,
 		C3.Plugins.Sprite.Acts.SetAngle,
+		C3.Plugins.System.Acts.SetBoolVar,
+		C3.Plugins.System.Acts.SetTimescale,
 		C3.Plugins.LocalStorage.Acts.GetItem,
 		C3.Plugins.LocalStorage.Cnds.OnItemMissing,
 		C3.Plugins.LocalStorage.Cnds.OnItemGet,
@@ -28,12 +31,12 @@ self.C3_GetObjectRefTable = function () {
 		C3.Plugins.Sprite.Acts.RotateClockwise,
 		C3.Plugins.System.Exps.dt,
 		C3.Plugins.Sprite.Cnds.IsOverlapping,
-		C3.Plugins.System.Acts.SetBoolVar,
 		C3.Plugins.Sprite.Cnds.IsOutsideLayout,
 		C3.Plugins.System.Cnds.CompareBoolVar,
-		C3.Plugins.System.Acts.SetTimescale,
+		C3.Plugins.System.Cnds.TriggerOnce,
 		C3.Plugins.Button.Acts.SetVisible,
 		C3.Plugins.Text.Acts.SetVisible,
+		C3.Plugins.System.Exps.choose,
 		C3.Plugins.System.Cnds.Compare,
 		C3.Plugins.LocalStorage.Acts.SetItem,
 		C3.Plugins.Sprite.Cnds.CompareX,
@@ -44,6 +47,8 @@ self.C3_GetObjectRefTable = function () {
 		C3.Plugins.TiledBg.Cnds.CompareX,
 		C3.Plugins.Sprite.Acts.SetX,
 		C3.Plugins.TiledBg.Exps.X,
+		C3.Plugins.TiledBg.Acts.SetImageOffsetX,
+		C3.Plugins.TiledBg.Exps.ImageOffsetX,
 		C3.Plugins.System.Cnds.Every,
 		C3.Plugins.System.Acts.CreateObject,
 		C3.Plugins.System.Exps.random,
@@ -51,8 +56,8 @@ self.C3_GetObjectRefTable = function () {
 		C3.Plugins.Text.Acts.MoveToTop,
 		C3.Plugins.Button.Cnds.OnClicked,
 		C3.Plugins.System.Acts.RestartLayout,
-		C3.Plugins.Audio.Acts.Play,
-		C3.Plugins.System.Acts.GoToLayout
+		C3.Plugins.System.Acts.GoToLayout,
+		C3.Plugins.Audio.Acts.Play
 	];
 };
 self.C3_JsPropNameTable = [
@@ -77,6 +82,18 @@ self.C3_JsPropNameTable = [
 	{HighScoreText: 0},
 	{Sprite2: 0},
 	{Bird2: 0},
+	{Text: 0},
+	{Text2: 0},
+	{Text3: 0},
+	{Text4: 0},
+	{bush3: 0},
+	{cloud5: 0},
+	{houseSmallAlt1: 0},
+	{houseSmallAlt2: 0},
+	{ButtonQuit: 0},
+	{NewScoreText: 0},
+	{Sine: 0},
+	{TiledBackground3: 0},
 	{SecondsPerObstacle: 0},
 	{JumpStrength: 0},
 	{SCROLLSPEED: 0},
@@ -104,5 +121,16 @@ self.InstanceType = {
 	LocalStorage: class extends self.IInstance {},
 	HighScoreText: class extends self.ITextInstance {},
 	Sprite2: class extends self.ISpriteInstance {},
-	Bird2: class extends self.ISpriteInstance {}
+	Bird2: class extends self.ISpriteInstance {},
+	Text: class extends self.ITextInstance {},
+	Text2: class extends self.ITextInstance {},
+	Text3: class extends self.ITextInstance {},
+	Text4: class extends self.ITextInstance {},
+	bush3: class extends self.ISpriteInstance {},
+	cloud5: class extends self.ISpriteInstance {},
+	houseSmallAlt1: class extends self.ISpriteInstance {},
+	houseSmallAlt2: class extends self.ISpriteInstance {},
+	ButtonQuit: class extends self.IButtonInstance {},
+	NewScoreText: class extends self.ITextInstance {},
+	TiledBackground3: class extends self.ITiledBackgroundInstance {}
 }

diff --git a/Flapping bird template/index.html b/Flapping bird template/index.html
@@ -3,12 +3,13 @@
 <head>
     <meta charset="UTF-8">
 	<title>Flapping bird</title>
-	<meta name="viewport" content="width=device-width, initial-scale=1.0, maximum-scale=1.0, minimum-scale=1.0, user-scalable=no">
+	<meta name="viewport" content="width=device-width, initial-scale=1.0, maximum-scale=1.0, minimum-scale=1.0, user-scalable=no, viewport-fit=cover">
 	
 	<!-- Made with Construct, the game and app creator :: https://www.construct.net -->
 	<meta name="generator" content="Scirra Construct">
 
 	<meta name="author" content="The JavaWockee">
+	<meta name="description" content="Learning to make this game my own">
 
 	<link rel="manifest" href="appmanifest.json">
 	<link rel="apple-touch-icon" sizes="128x128" href="icons/icon-128.png">
